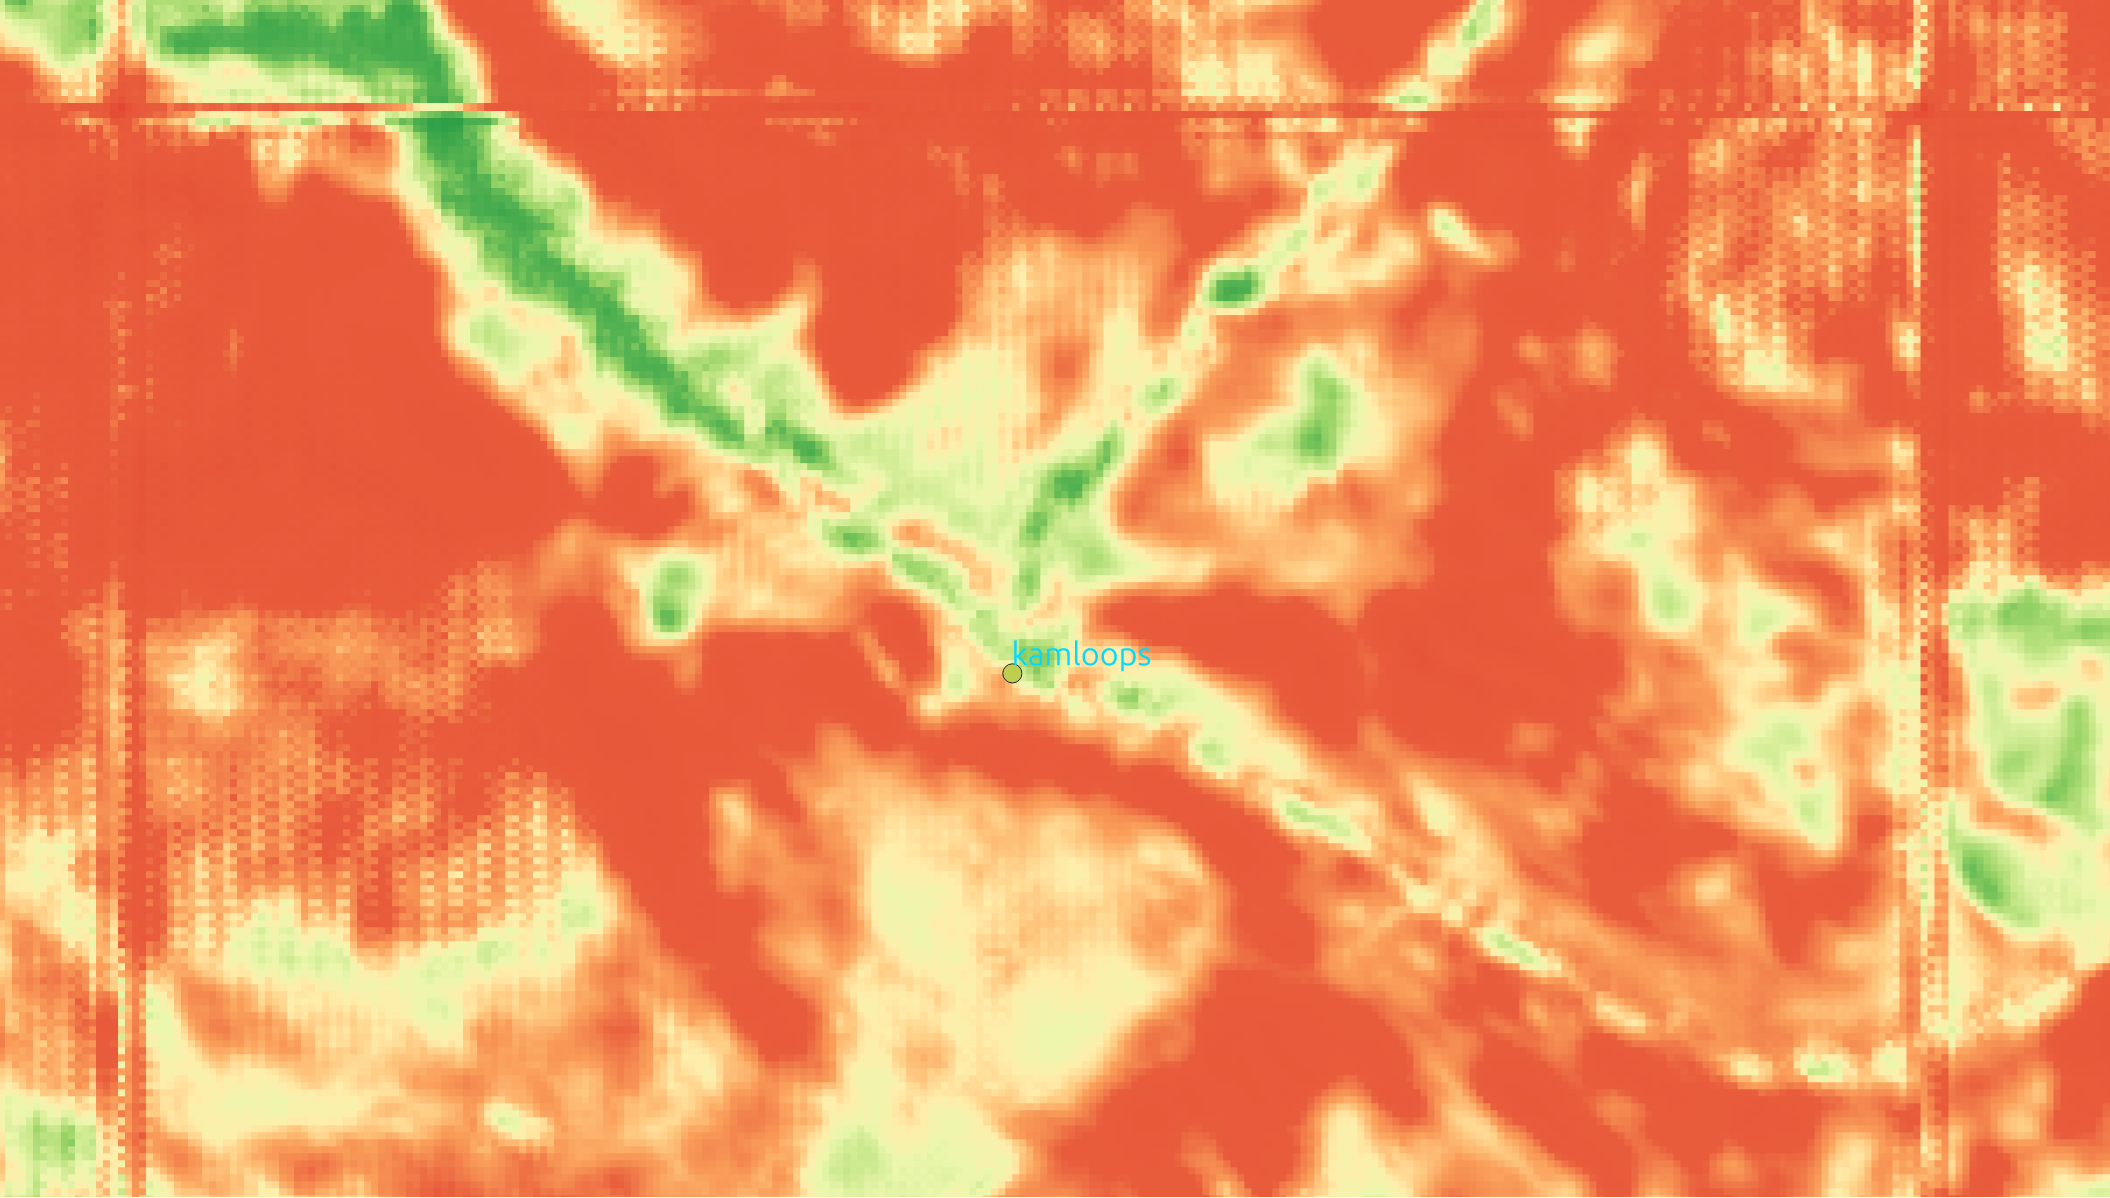
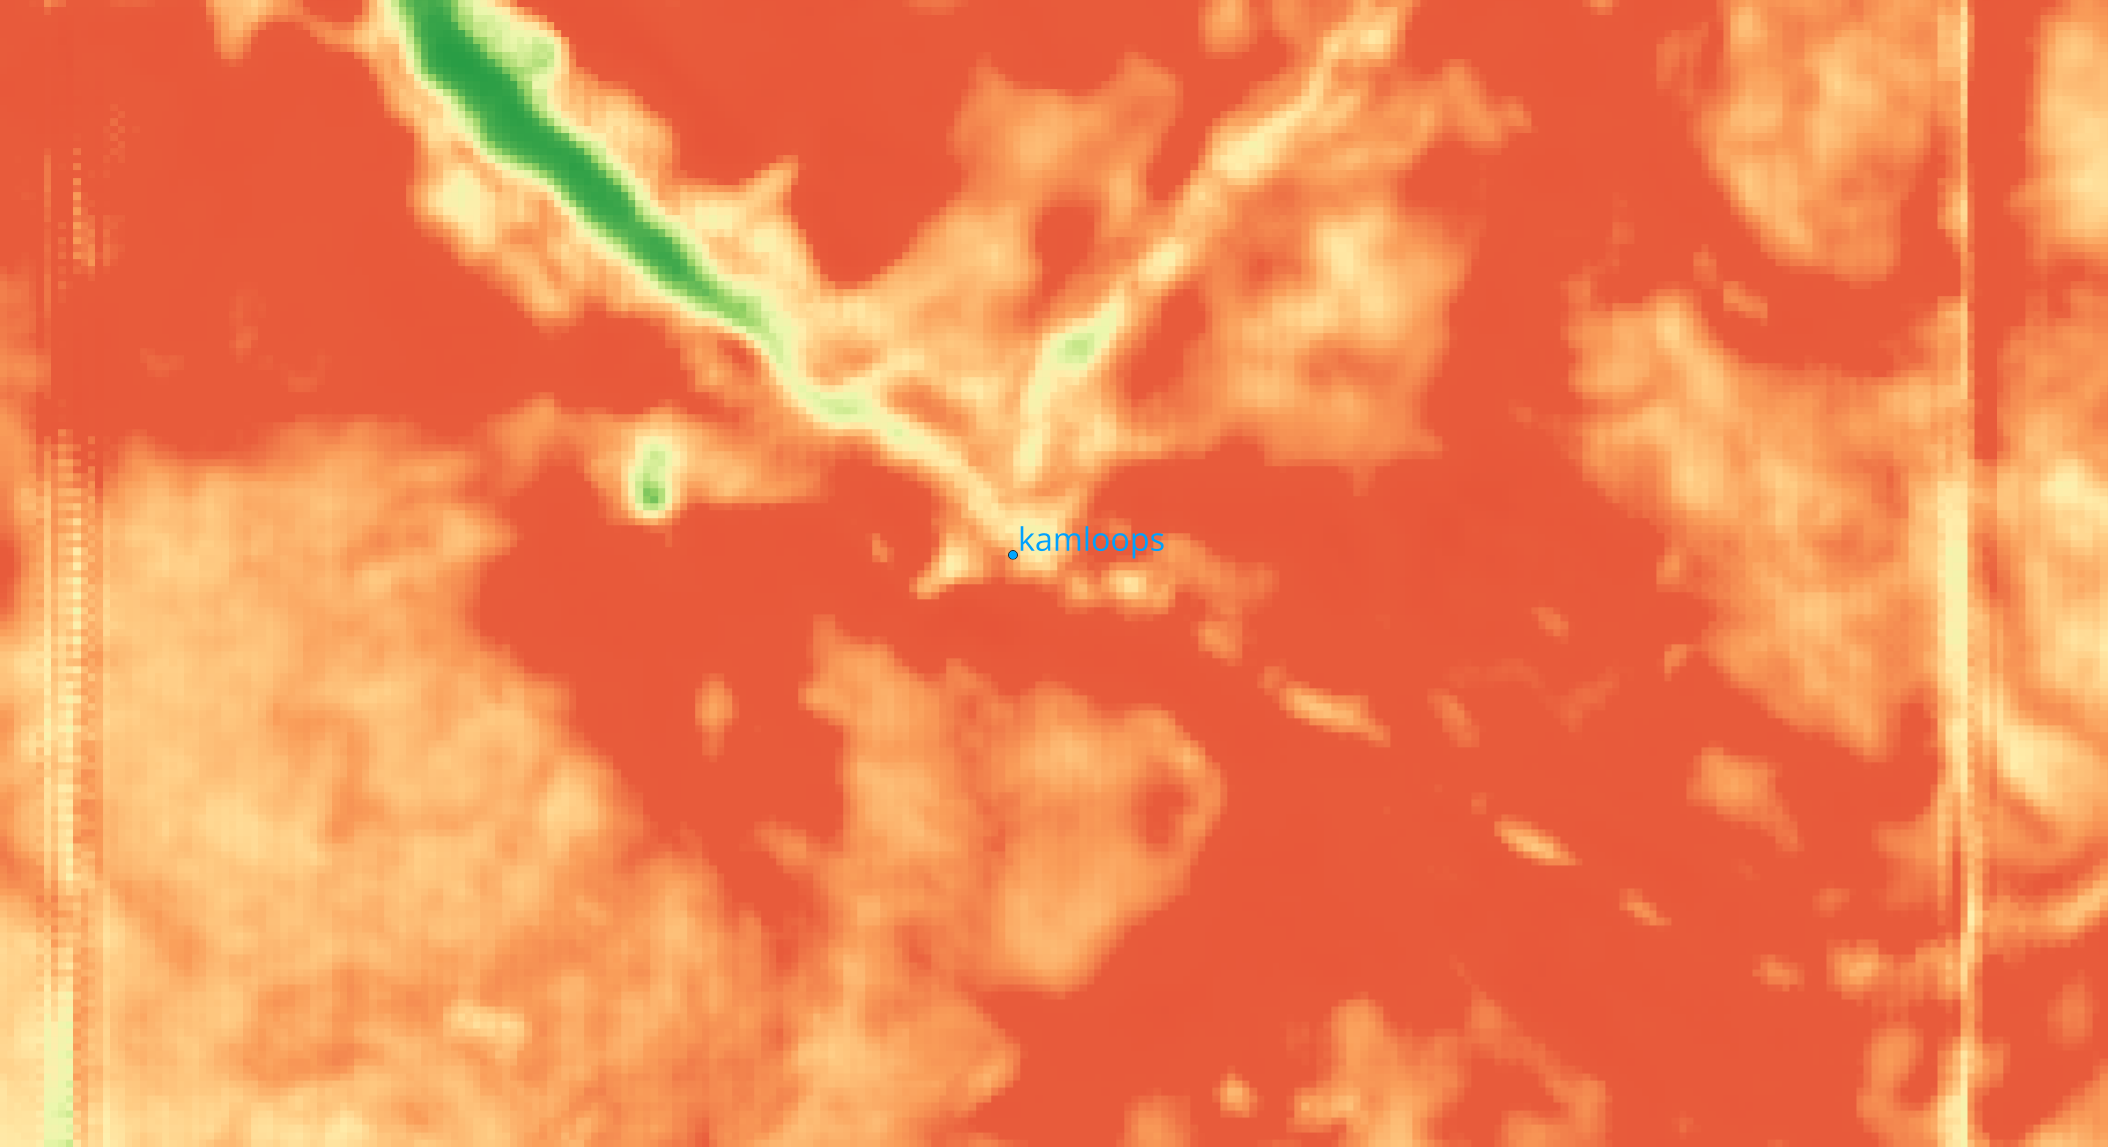
Updated README for latest v1 model

diff --git a/src/losses/ce_dice.py b/src/losses/ce_dice.py
@@ -1,6 +1,6 @@
 import torch
 import torch.nn as nn
-from losses.dice import BinarySoftDiceLoss
+from segmentation_models_pytorch.losses import DiceLoss
 
 
 class BinaryCeSoftDiceLoss(nn.Module):
@@ -11,7 +11,7 @@ class BinaryCeSoftDiceLoss(nn.Module):
         self.ce_weight = ce_weight
         self.dice_weight = dice_weight
         self.ce_loss = nn.BCEWithLogitsLoss(**ce_params)
-        self.dice_loss = BinarySoftDiceLoss(**dice_params)
+        self.dice_loss = DiceLoss(**dice_params)
 
     def forward(self, predictions: torch.Tensor, target: torch.Tensor) -> torch.Tensor:
         ce_loss = self.ce_loss(predictions, target)

diff --git a/src/losses/loss_factory.py b/src/losses/loss_factory.py
@@ -1,5 +1,5 @@
 import torch.nn as nn
-from losses.dice import BinarySoftDiceLoss
+from segmentation_models_pytorch.losses import DiceLoss
 from losses.ce_dice import BinaryCeSoftDiceLoss
 
 
@@ -7,7 +7,7 @@ def create_loss(loss_name: str, **kwargs) -> nn.Module:
     if loss_name == "ce_loss":
         return nn.BCEWithLogitsLoss(**kwargs)
     elif loss_name == "dice_loss":
-        return BinarySoftDiceLoss(**kwargs)
+        return DiceLoss(**kwargs)
     elif loss_name == "ce_dice_loss":
         return BinaryCeSoftDiceLoss(**kwargs)
     else:

diff --git a/src/predictors/map_predictor.py b/src/predictors/map_predictor.py
@@ -1,5 +1,6 @@
 import torch
 import torch.nn as nn
+import torch.nn.functional as F
 import asyncio
 from osgeo import gdal
 from osgeo import osr
@@ -51,7 +52,7 @@ class MapPredictor:
                 y_hat = torch.squeeze(y_hat, dim=1)
 
                 if self.use_probabilities:
-                    y_hat = torch.sigmoid(y_hat)
+                    y_hat = F.logsigmoid(y_hat).exp()
 
                 for i, prediction in enumerate(y_hat):
                     geotransform = geotransforms[i]

diff --git a/README.md b/README.md
@@ -13,15 +13,15 @@ The model developed here serves as a proof of concept and is not yet fully optim
 - Using 10 Quantilese to map the predicted hazard map
 - Resolution : 250m/pixel (for both training & predicting)
 - Training periods : 2010-2021 (inclusively)  
-- <a href="https://www.comet.com/alexandrebrown/wildfire/167f313d4c8c4c95a32d56b4fb3b3419" 
+- <a href="https://www.comet.com/alexandrebrown/wildfire/26b4b0671ac9433ea6b5f7dac1592377" 
       style="text-decoration: none; color: #0073e6;">
     View the model training run on CometML
   </a>  
-- <a href="https://drive.google.com/file/d/1wdIgKBH1kKouCVM-wWN-fWbXRAJc4-G_/view?usp=sharing"
+- <a href="https://drive.google.com/file/d/1kvvDeFAmqPzSd7s-v1nILSmFfLp0vtM4/view?usp=sharing"
     style="text-decoration: none; color: #0073e6;">
     Download 2023 Prediction Map
   </a>
-- <a href="https://drive.google.com/file/d/1u6HufI5ZngeTXSngWTirmtnK-9bncLuE/view?usp=sharing"
+- <a href="https://www.comet.com/api/asset/download?assetId=831b5a911cba48c4beee9f3559583d6f&experimentKey=26b4b0671ac9433ea6b5f7dac1592377"
     style="text-decoration: none; color: #0073e6;">
     Download Model Weights
   </a>
@@ -29,10 +29,10 @@ The model developed here serves as a proof of concept and is not yet fully optim
   <thead>
     <tr>
       <th style="border: 1px solid #ddd; padding: 15px; background-color: #4CAF50; color: white; font-size: 18px; font-weight: bold;">
-        UNet Model v1 2023 Predicted Fire Hazard Map (Test Set)
+        UNet Model (latest model) 2023 Predicted Fire Hazard Map (Test Set)
       </th>
       <th style="border: 1px solid #ddd; padding: 15px; background-color: #4CAF50; color: white; font-size: 18px; font-weight: bold;">
-        2023 Ground Truth (After Q/A)
+        2023 Ground Truth (After QC)
       </th>
     </tr>
   </thead>
@@ -56,33 +56,57 @@ The model developed here serves as a proof of concept and is not yet fully optim
         Predicted Fire Hazard Map
       </th>
       <th style="border: 1px solid #ddd; padding: 15px; background-color: #4CAF50; color: white; font-size: 18px; font-weight: bold;">
-        Satellite Image (Ground Truth)
+        Satellite Image
       </th>
     </tr>
   </thead>
   <tbody>
     <tr>
       <td style="border: 1px solid #ddd; padding: 10px;">
-        <img src="doc/imgs/preds/kamloops_2_pred_2023_unet_v1.png" alt="Kamloops 2 Predicted Fire Hazard Map" height="300px" style="margin-top: 10px;"/>
+        <img src="doc/imgs/preds/kamloops_pred_2023_unet_v1.png" alt="Kamloops Predicted Fire Hazard Map" height="300px" style="margin-top: 10px;"/>
+        </br>
+        <div>
+          Kamloops (city area with expected high probability)
+        </div>
       </td>
       <td style="border: 1px solid #ddd; padding: 10px;">
-        <img src="doc/imgs/preds/kamloops_2_satellite.png" alt="Kamloops 2 Satellite Image" height="300px" style="margin-top: 10px;"/>
+        <img src="doc/imgs/preds/kamloops_satellite.png" alt="Kamloops Satellite Image" height="300px" style="margin-top: 10px;"/>
+        </br>
+        <div>
+          Kamloops
+        </div>
       </td>
     </tr>
     <tr>
       <td style="border: 1px solid #ddd; padding: 10px;">
-        <img src="doc/imgs/preds/kamloops_pred_2023_unet_v1.png" alt="Kamloops Predicted Fire Hazard Map" height="300px" style="margin-top: 10px;"/>
+        <img src="doc/imgs/preds/kelowna_pred_2023_unet_v1.png" alt="Kelowna Predicted Fire Hazard Map" height="300px" style="margin-top: 10px;"/>
+        </br>
+        <div>
+          Kelowna (city area with expected high probability)
+        </div>
       </td>
       <td style="border: 1px solid #ddd; padding: 10px;">
-        <img src="doc/imgs/preds/kamloops_satellite.png" alt="Kamloops Satellite Image" height="300px" style="margin-top: 10px;"/>
+        <img src="doc/imgs/preds/kelowna_satellite.png" alt="Kelowna Satellite Image" height="300px" style="margin-top: 10px;"/>
+        </br>
+        <div>
+          Kelowna
+        </div>
       </td>
     </tr>
     <tr>
       <td style="border: 1px solid #ddd; padding: 10px;">
         <img src="doc/imgs/preds/vancouver_pred_2023_unet_v1.png" alt="Vancouver Predicted Fire Hazard Map" height="300px" style="margin-top: 10px;"/>
+        </br>
+        <div>
+          Vancouver (city area with expected low probability)
+        </div>
       </td>
       <td style="border: 1px solid #ddd; padding: 10px;">
         <img src="doc/imgs/preds/vancouver_satellite.png" alt="Vancouver Satellite Image" height="300px" style="margin-top: 10px;"/>
+        </br>
+        <div>
+          Vancouver
+        </div>
       </td>
     </tr>
   </tbody>
